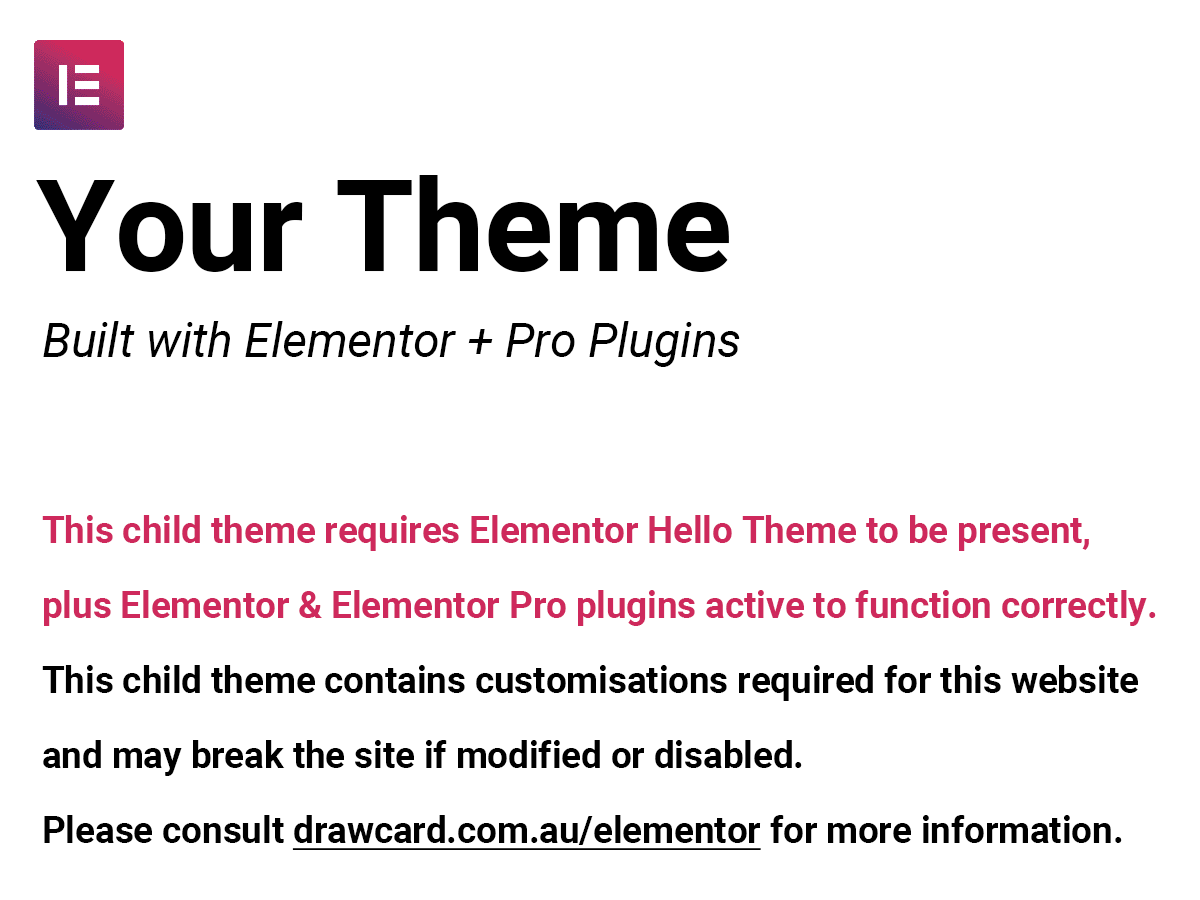
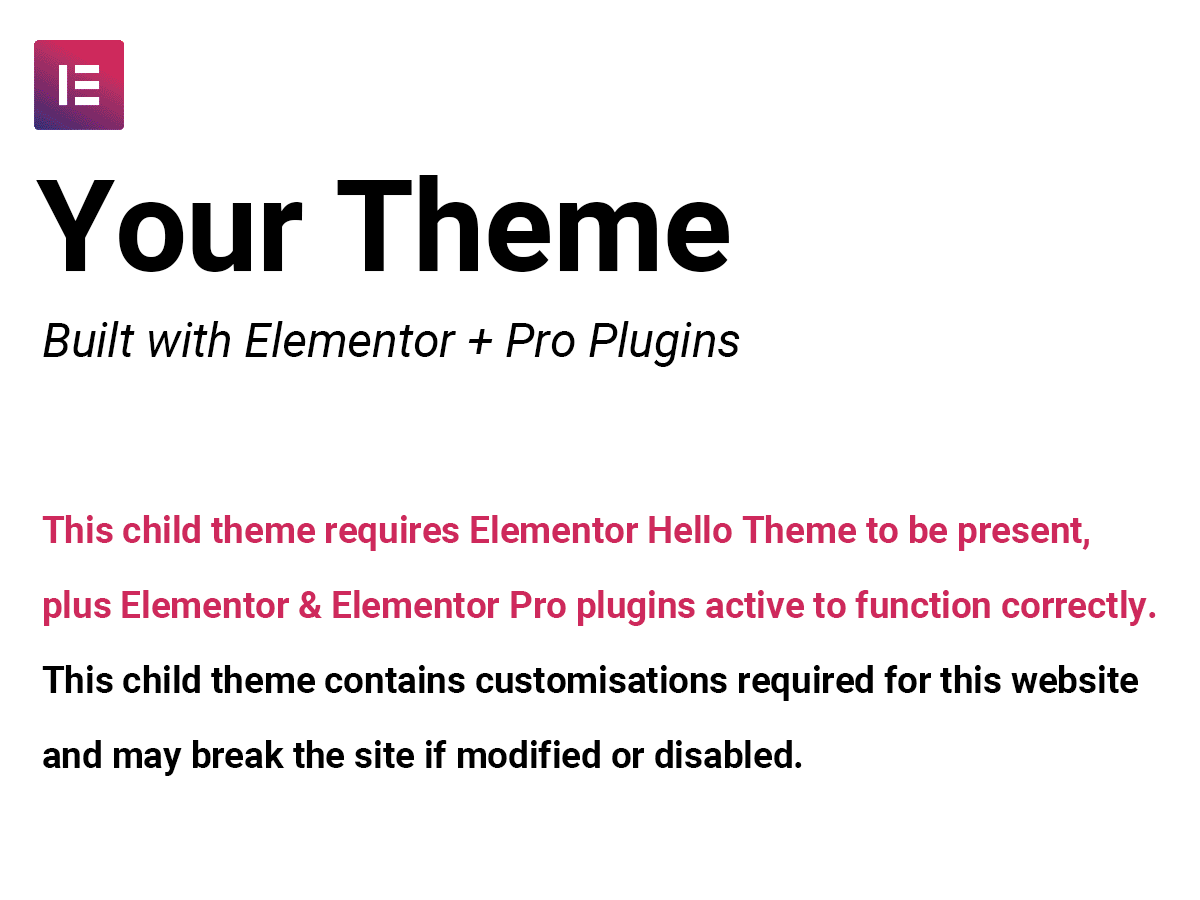
Update theme info

Changed region(s): [[0.0308, 0.9022, 0.925, 0.9644]]

diff --git a/style.css b/style.css
@@ -1,9 +1,6 @@
 /*!
-	Theme Name: Your Theme
-	Theme URI: https://github.com/drawcard/elementor-hello-theme/tree/child-theme
-	Description: Requires Elementor, Elementor Pro plugins active + Elementor Hello Theme present. Functionality and appearance may break if modified or disabled.
-	Author: Drawcard
-	Author URI: https://drawcard.com.au/elementor
-	Text Domain: hello-elementor-child
-  Template: elementor-hello-theme
+	Theme Name: Your Website Theme (Elementor Hello Child Theme)
+	Description: Requires Elementor, Elementor Pro plugins active + Hello Theme present. Functionality and appearance may break if modified or disabled.
+	Text Domain: hello-elementor-theme-child
+  Template: hello-elementor-theme
 */
